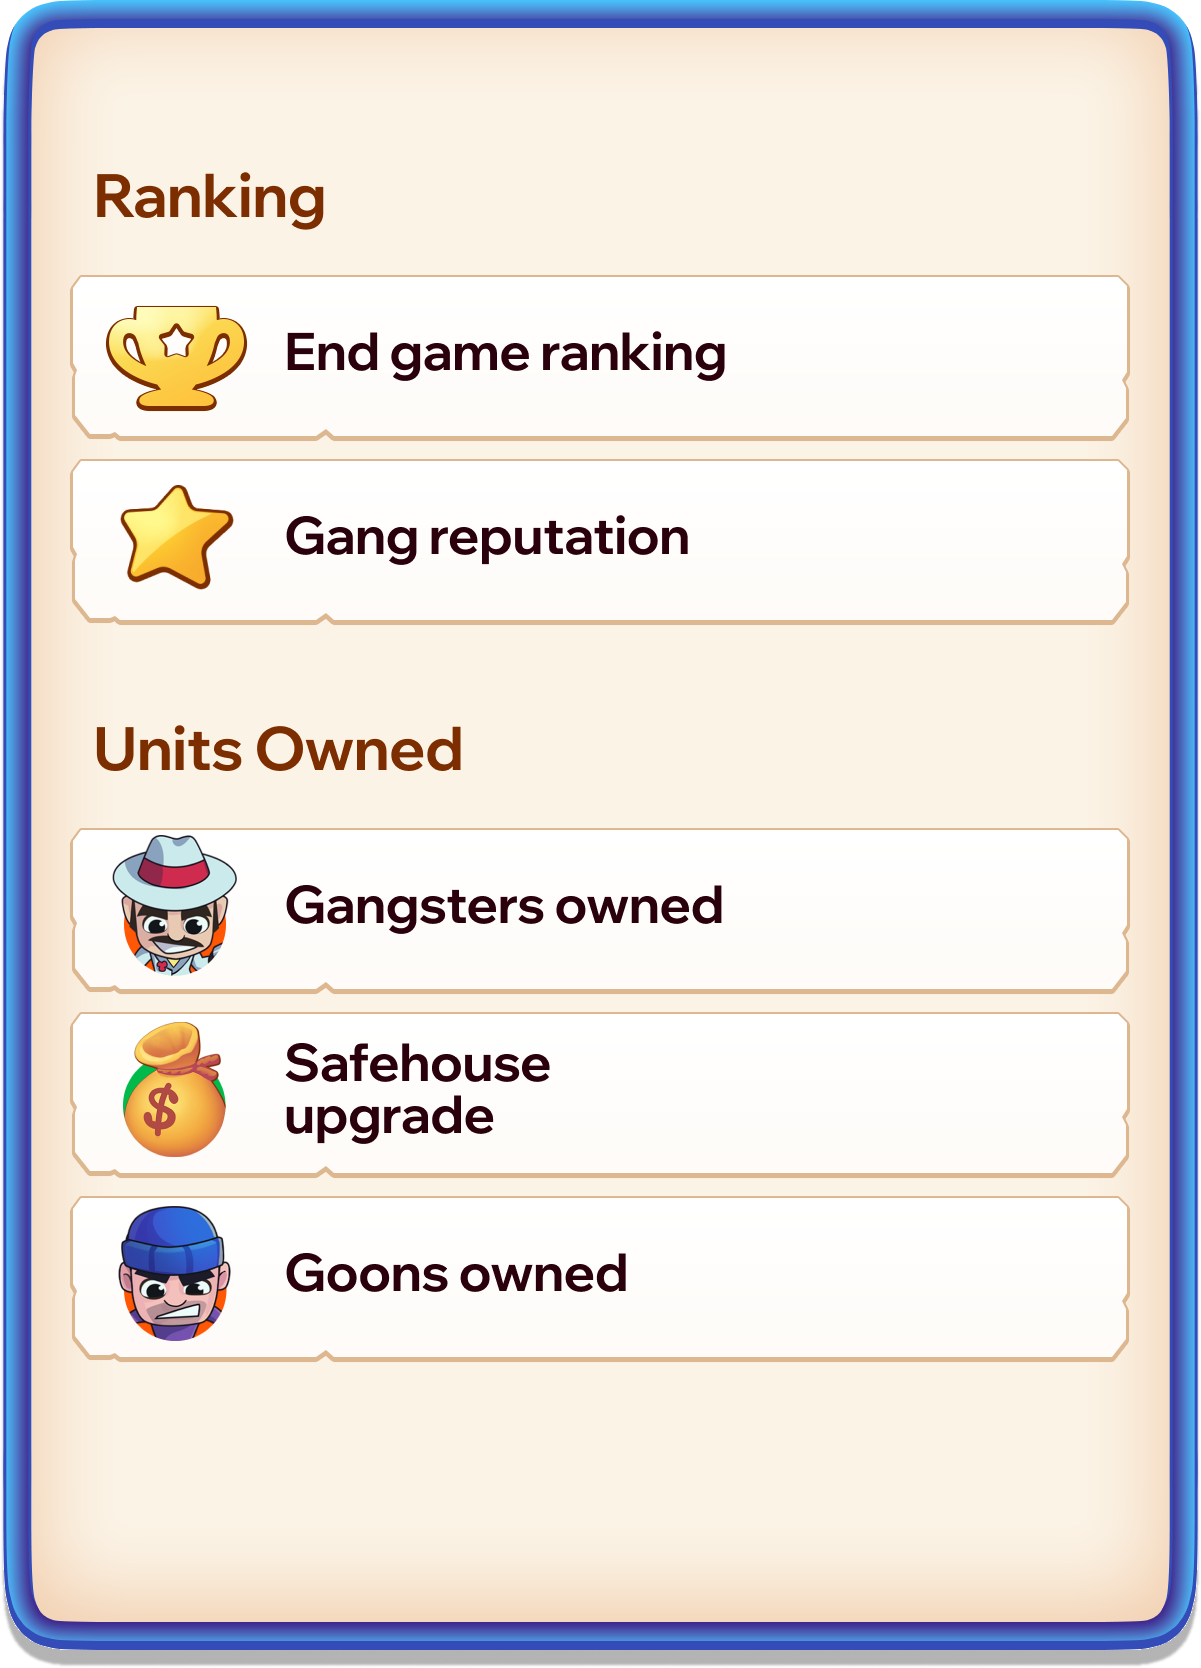
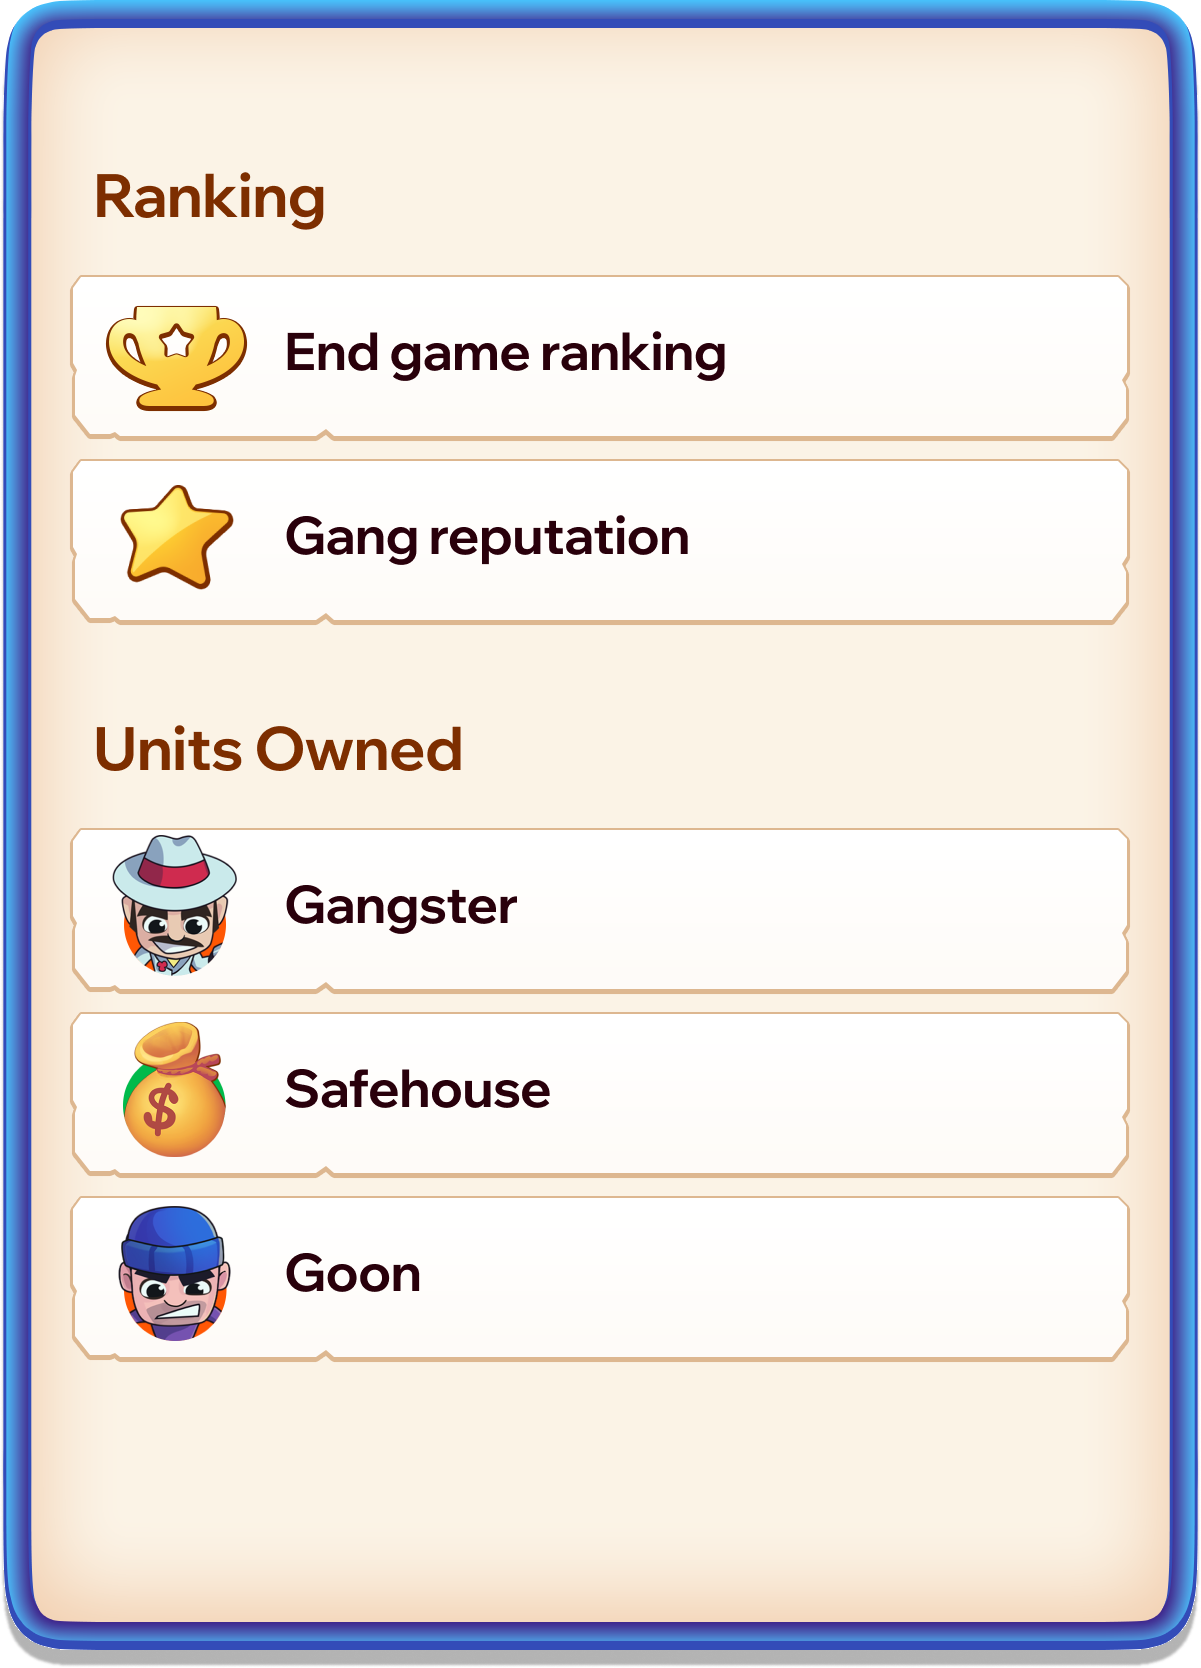
chore: change `Upgrade` safehouse to `Buy`

Changed region(s): [[0.2157, 0.6235, 0.4621, 0.6859], [0.4313, 0.53, 0.6162, 0.5612], [0.3389, 0.7482, 0.5237, 0.7794]]

diff --git a/app/src/pages/Game/components/popup/PopupSafeHouseUpgrade.js b/app/src/pages/Game/components/popup/PopupSafeHouseUpgrade.js
@@ -80,18 +80,18 @@ class PopupSafeHouseUpgrade extends Popup {
       completedEvent: events.completed,
       completedIcon: 'icon-safehouse-upgrade-done',
       failedIcon: 'icon-safehouse-upgrade-fail',
-      description: `Upgrading Safehouse.\nPlease, wait`,
+      description: `Buying Safehouse.\nPlease, wait`,
       onCompleted,
     });
     scene.add.existing(this.popupBuyProcessing);
     this.popupConfirm = new PopupConfirm(scene, this, {
-      title: 'Upgrade Safehouse',
-      action: 'upgrade',
+      title: 'Buy Safehouse',
+      action: 'buy',
       icon1: 'icon-safehouse-medium',
       icon2: 'icon-coin-small',
       onConfirm: () => {
         if (!this.quantity) return;
-        this.popupBuyProcessing.initLoading(`Upgrading Safehouse.\nPlease, wait`);
+        this.popupBuyProcessing.initLoading(`Buying Safehouse.\nPlease, wait`);
 
         scene.game.events.emit(events.upgradeHouse, { quantity: this.quantity, token: this.purchaseToken });
       },
@@ -140,7 +140,7 @@ class PopupSafeHouseUpgrade extends Popup {
     });
     scene.add.existing(this.upgradePopupBuyProcessing);
 
-    this.upgradeBtn = new TextButton(
+    this.buyBtn = new TextButton(
       scene,
       width / 2,
       height / 2 + this.popup.height / 2 - 20,
@@ -149,7 +149,7 @@ class PopupSafeHouseUpgrade extends Popup {
       () => {
         if (isSimulator) {
           this.quantity = 1;
-          this.popupBuyProcessing.initLoading(`Upgrading Safehouse.\nPlease, wait`);
+          this.popupBuyProcessing.initLoading(`Buying Safehouse.\nPlease, wait`);
           this.onCompleted = null;
           this.close();
 
@@ -162,10 +162,10 @@ class PopupSafeHouseUpgrade extends Popup {
           this.popupConfirm.open();
         }
       },
-      'Upgrade',
+      'Buy',
       { fontSize: '82px', sound: 'buy' }
     );
-    this.add(this.upgradeBtn);
+    this.add(this.buyBtn);
 
     this.upgradePriceButton = new UpgradeAssetButton(scene, {
       x: this.popup.x + 250,
@@ -400,7 +400,7 @@ class PopupSafeHouseUpgrade extends Popup {
     });
 
     scene.game.events.on(events.gameEnded, () => {
-      this.upgradeBtn.setDisabledState(true);
+      this.buyBtn.setDisabledState(true);
     });
     scene.game.events.on('update-gas-upgrade-safehouse', ({ gas }) => {
       if (isNaN(gas)) return;
@@ -534,7 +534,7 @@ class PopupSafeHouseUpgrade extends Popup {
     const maxPurchase = this.purchaseToken === 'FIAT' ? this.estimatedMaxPurchase : this.xTokenMaxPurchase;
     const insufficientBalance = this.quantity > maxPurchase;
     this.insufficientBalance.setVisible(insufficientBalance);
-    this.upgradeBtn.setDisabledState(
+    this.buyBtn.setDisabledState(
       this.scene?.isGameEnded || (!this.scene?.isUserActive && !this.isSimulator) || insufficientBalance
     );
   }

diff --git a/app/src/pages/Game/components/popup/PopupStatistic.js b/app/src/pages/Game/components/popup/PopupStatistic.js
@@ -78,7 +78,7 @@ class PopupStatistic extends Popup {
         this.rankText.text = `${rank}/${formatter.format(totalPlayers)}`;
         this.networthText.text = `${formatter.format(networth)}`;
         this.numberOfMachinesText.text = `${formatter.format(numberOfMachines)} units`;
-        this.numberOfBuildingsText.text = `${formatter.format(numberOfBuildings)} upgrades`;
+        this.numberOfBuildingsText.text = `${formatter.format(numberOfBuildings)} units`;
         this.numberOfWorkersText.text = `${formatter.format(numberOfWorkers)} units`;
       }
     );

diff --git a/app/src/pages/Game/components/popup/PopupProcessing.js b/app/src/pages/Game/components/popup/PopupProcessing.js
@@ -171,7 +171,7 @@ class PopupProcessing extends Popup {
           case 'upgrade-safehouse-completed':
           case 'simulator-upgrade-safehouse-completed':
             title = `${formatter.format(amount)} Safehouse${amount > 1 ? 's' : ''}`;
-            desc = 'Safehouse upgraded successfully.';
+            desc = 'Safehouse bought successfully.';
             break;
           case 'deposit-nft-completed':
             title = `${formatter.format(amount)} NFT${amount > 1 ? 's' : ''}`;
